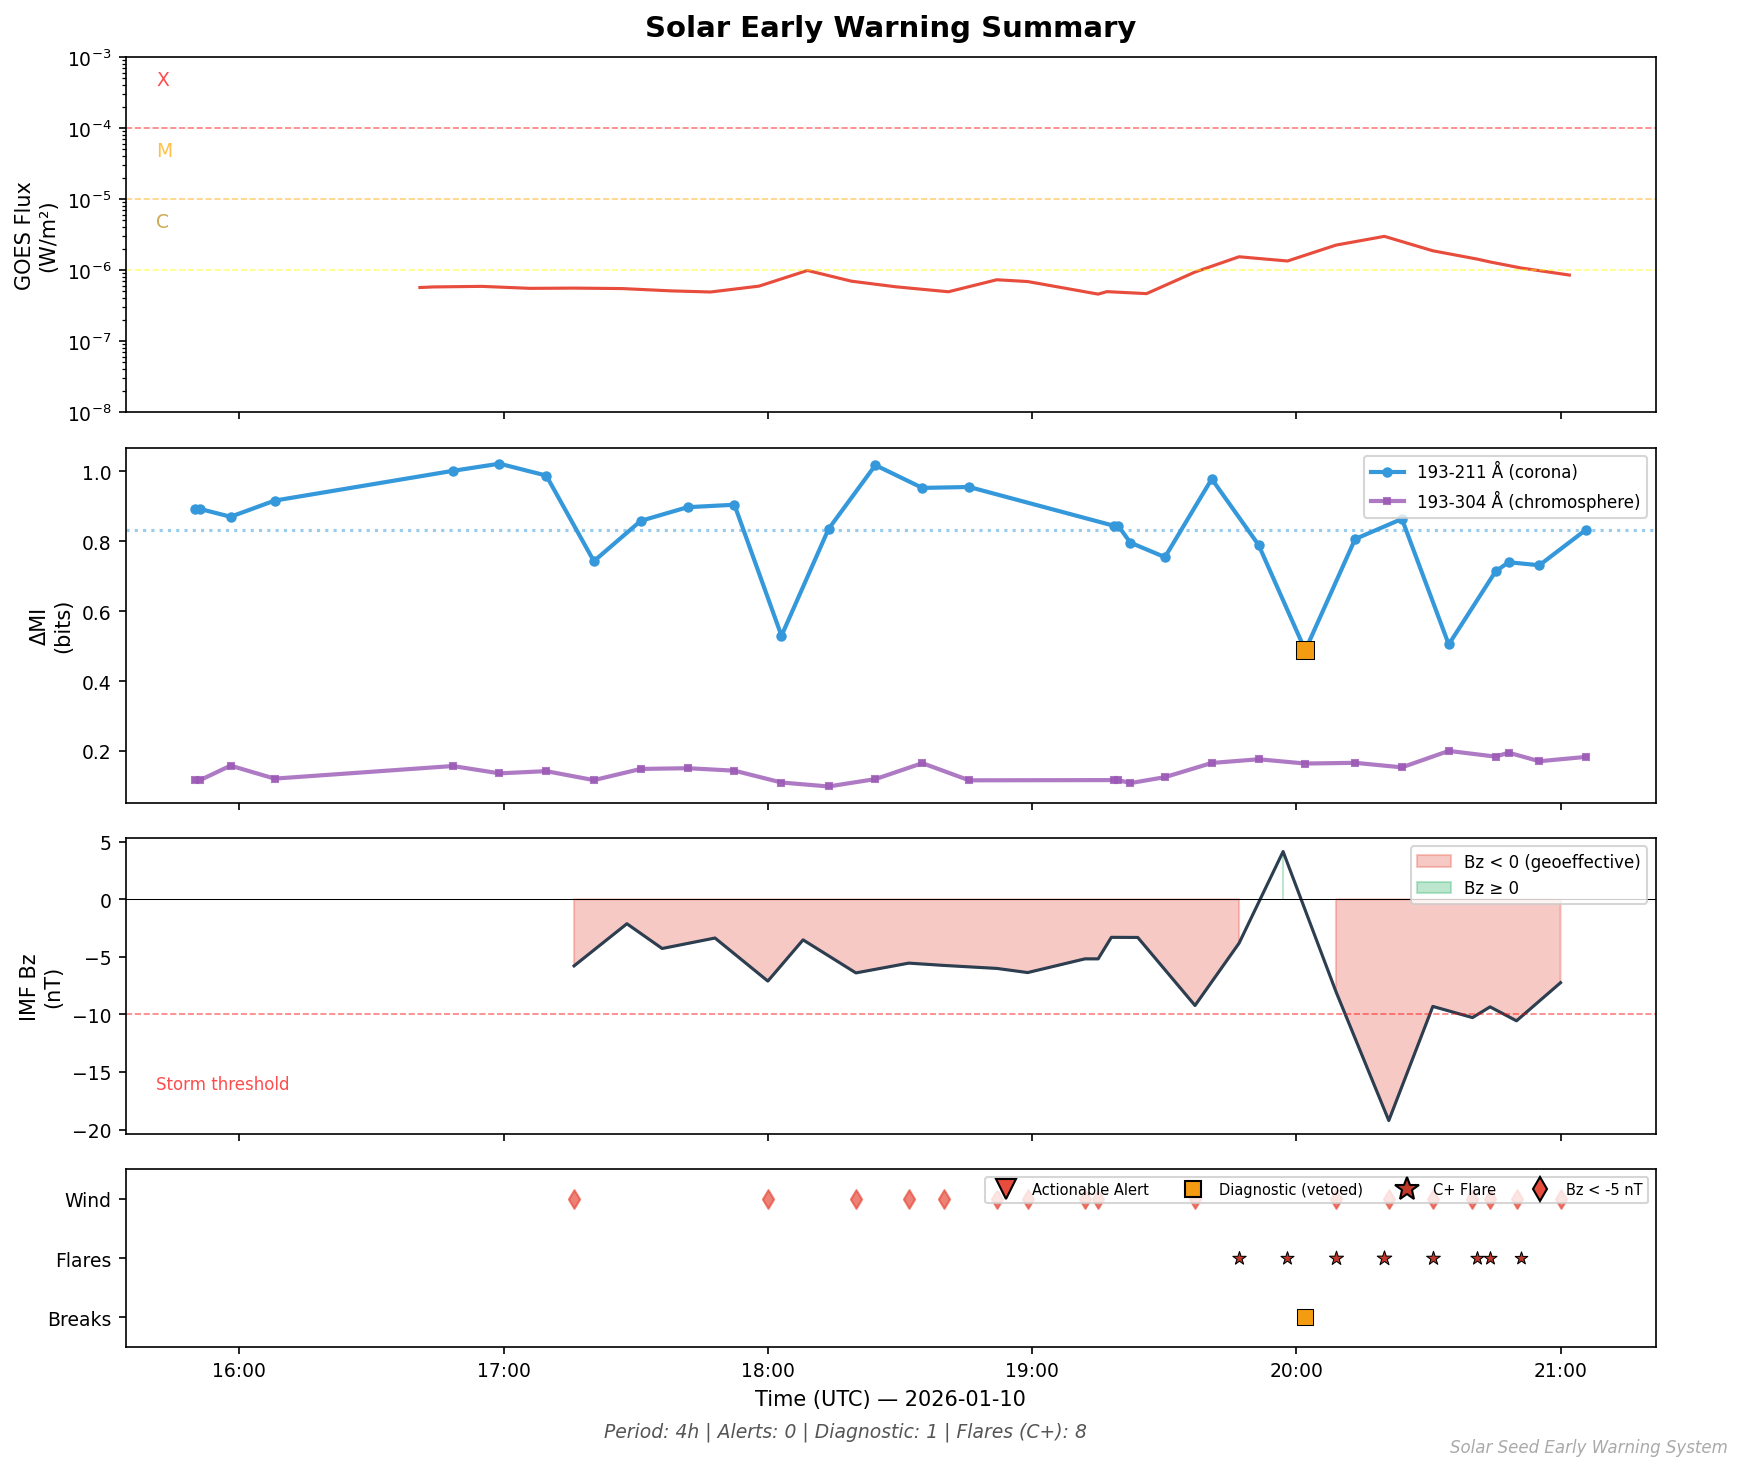
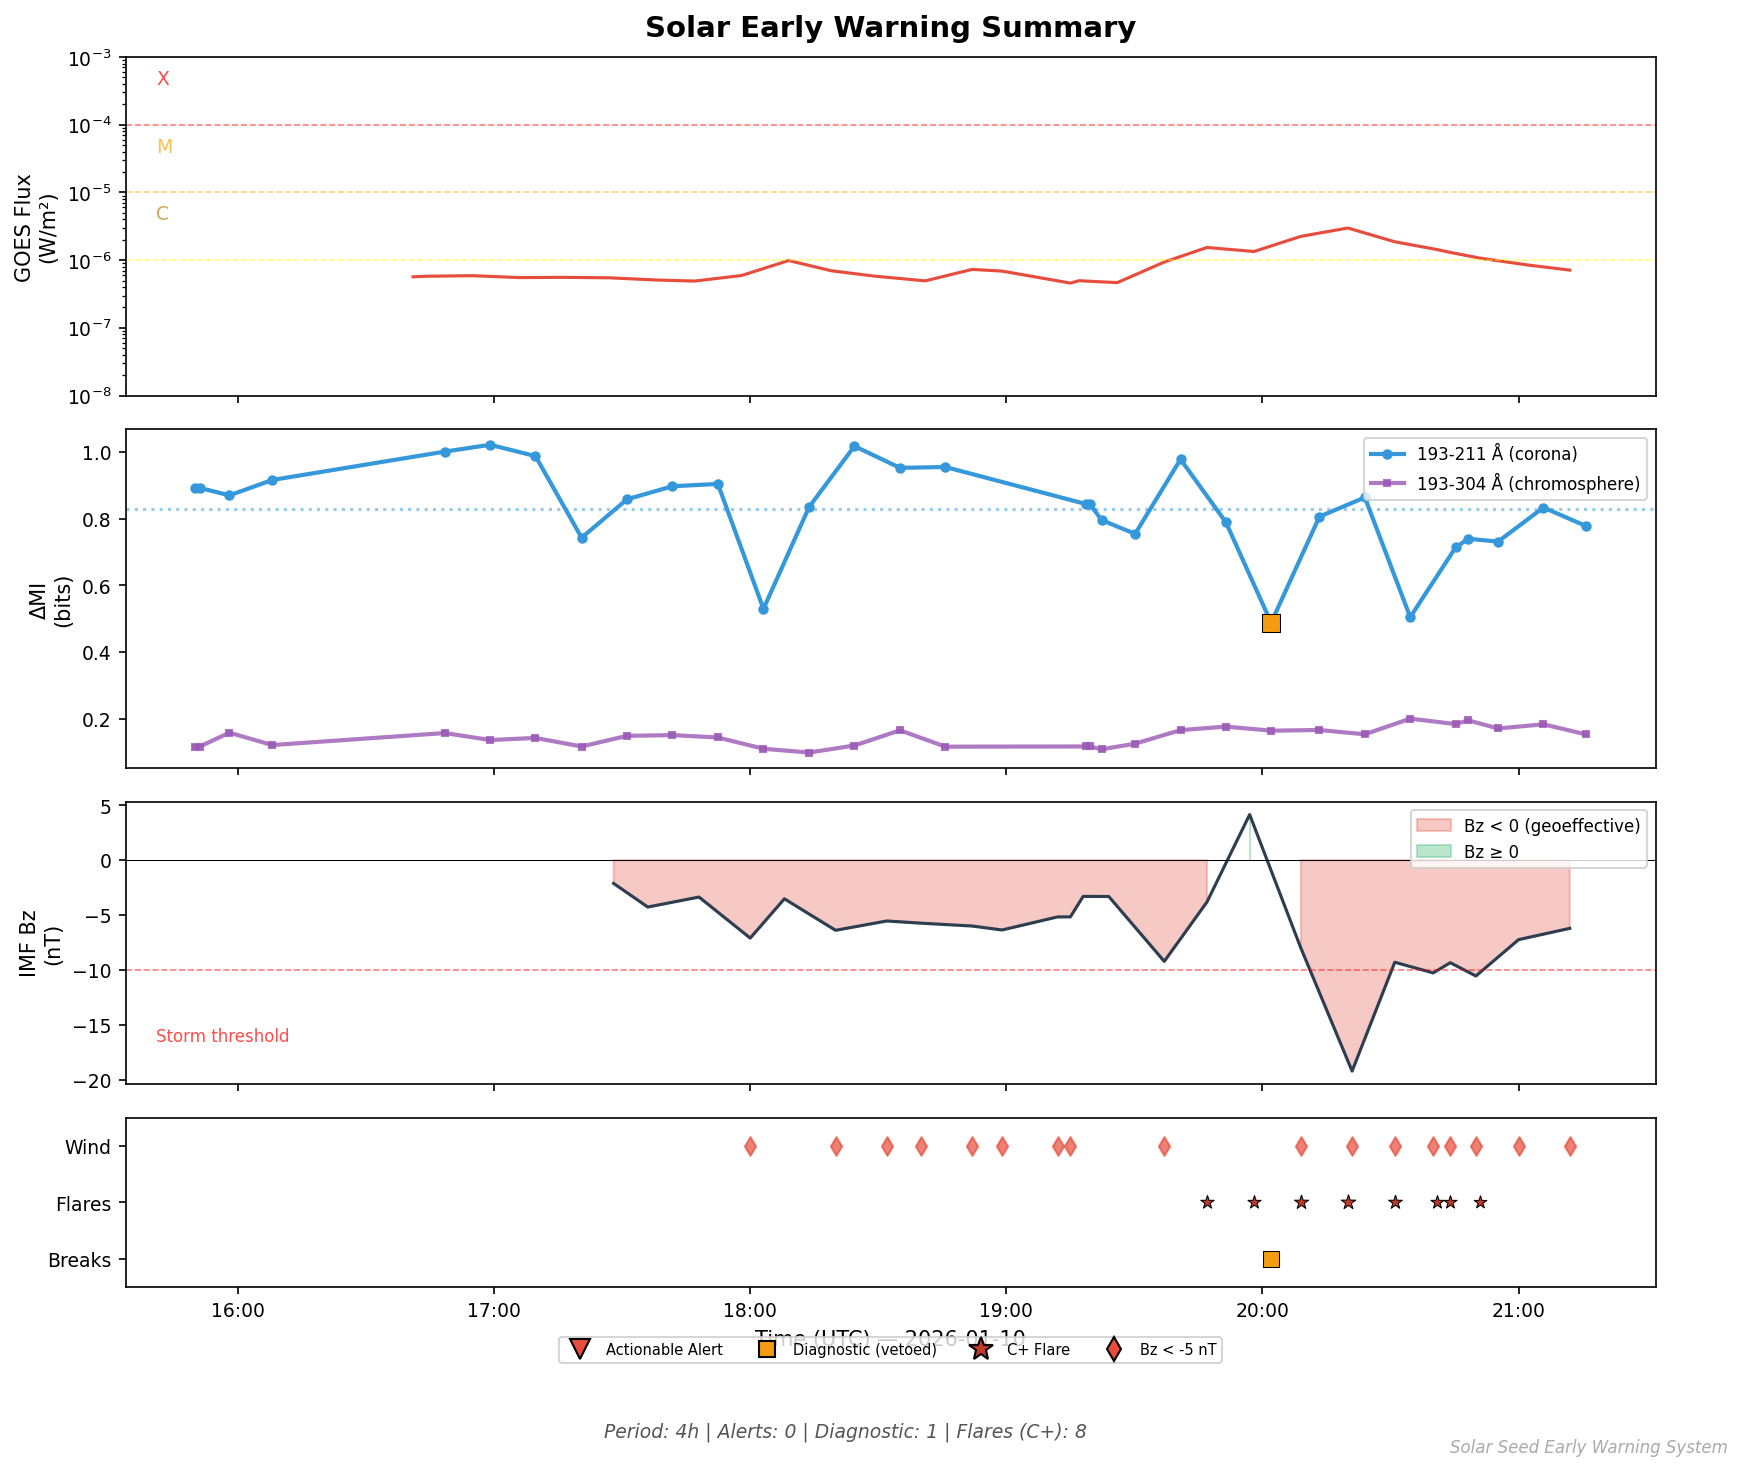
Fix legend overlap in Panel 4: move below timeline

diff --git a/scripts/figure_summary.py b/scripts/figure_summary.py
@@ -281,7 +281,9 @@ def create_summary_figure(data: dict, output_path: str = None, hours: int = 6):
         Line2D([0], [0], marker='d', color='w', markerfacecolor=colors['bz_south'],
                markersize=8, label='Bz < -5 nT', markeredgecolor='black'),
     ]
-    ax4.legend(handles=legend_elements, loc='upper right', fontsize=7, ncol=4)
+    # Place legend below the panel to avoid overlap
+    ax4.legend(handles=legend_elements, loc='upper center', fontsize=7, ncol=4,
+               bbox_to_anchor=(0.5, -0.25), frameon=True, fancybox=True)
 
     # =========================================================================
     # Add annotation box
@@ -299,7 +301,7 @@ def create_summary_figure(data: dict, output_path: str = None, hours: int = 6):
     fig.text(0.99, 0.01, 'Solar Seed Early Warning System', ha='right', fontsize=8,
              color='#aaaaaa', style='italic')
 
-    plt.subplots_adjust(bottom=0.08, top=0.94, left=0.10, right=0.95)
+    plt.subplots_adjust(bottom=0.12, top=0.94, left=0.10, right=0.95)
 
     # Save or show
     if output_path:
